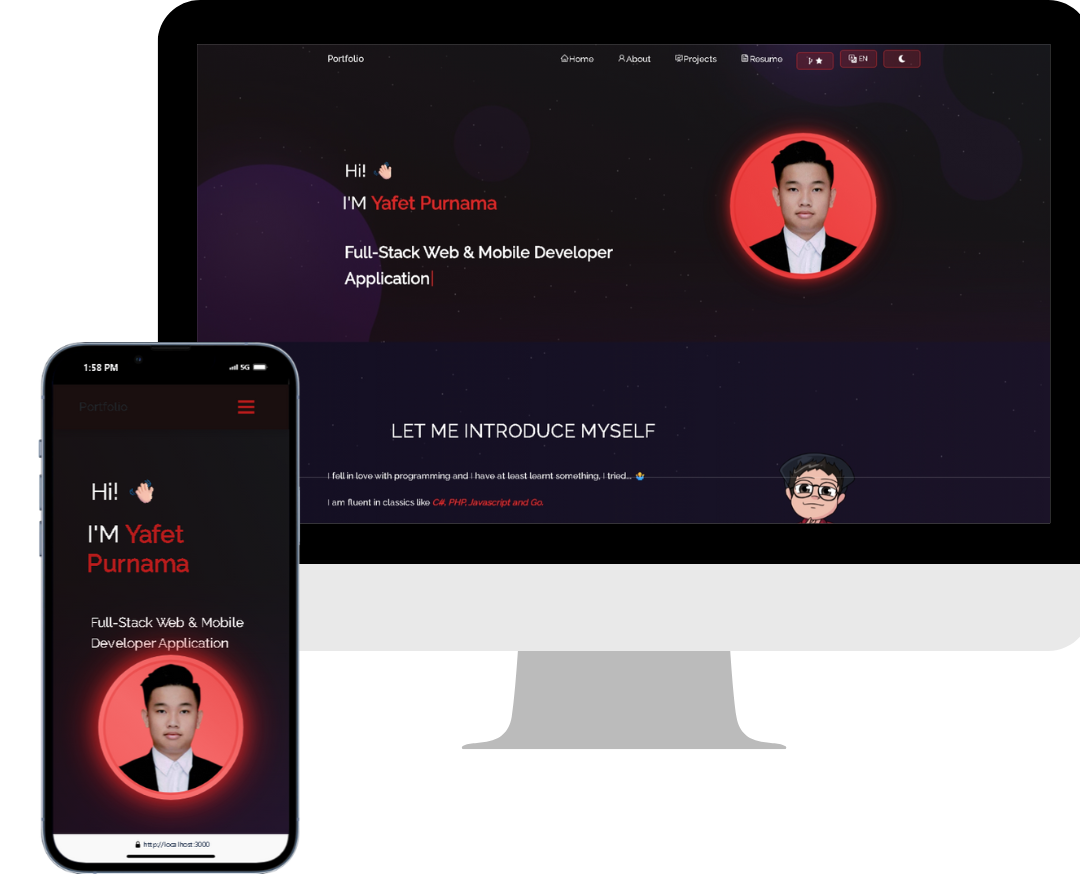
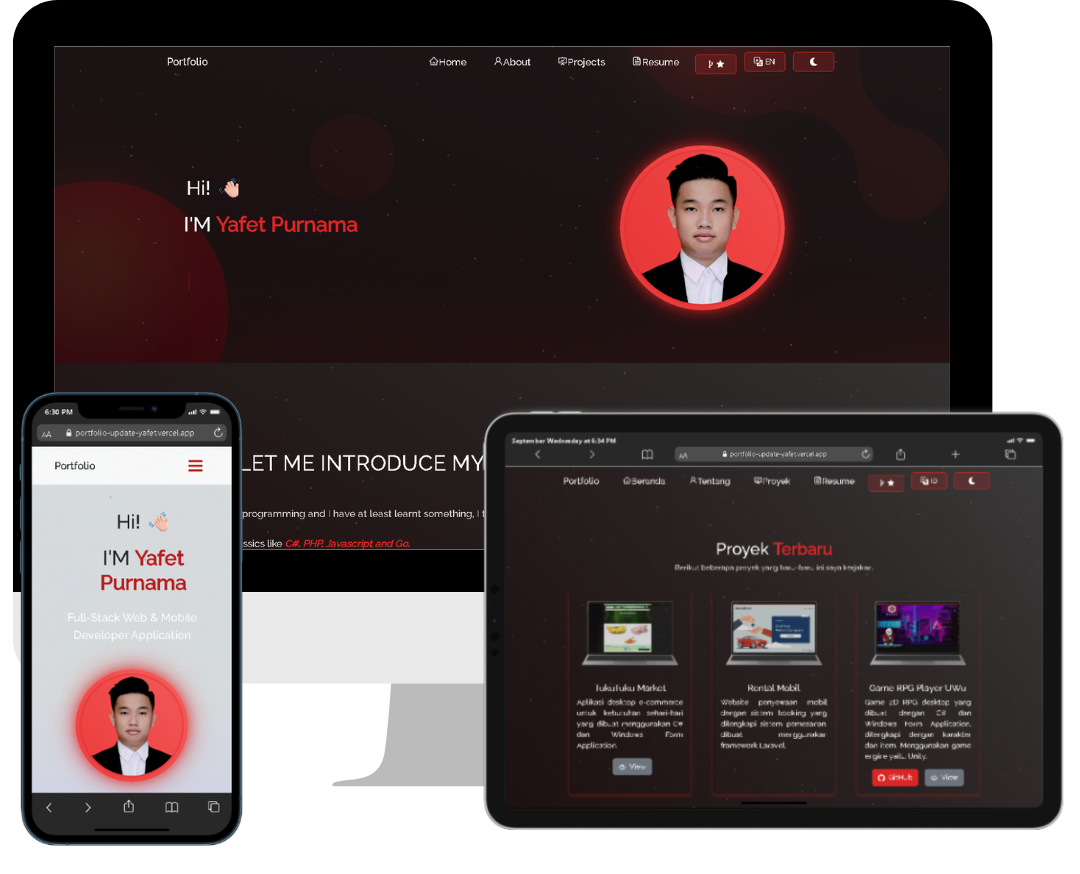
Perbaikan besarr besar setelah backup terakhir

diff --git a/src/style.css b/src/style.css
@@ -223,7 +223,7 @@ button:focus {
   justify-content: center !important;
   text-align: center !important;
   border: 1px solid var(--imp-text-color) !important;
-  color: var(--text-color) !important;
+  color: var(--text-color) !important; /* follow theme */
   transition: all 0.3s ease !important;
   height: 38px !important;
   min-width: 80px !important;
@@ -339,7 +339,8 @@ button:focus {
   .navbar {
     padding: 1rem 2rem !important;
     font-size: 1.4rem !important;
-    background-color: #1a0f0f !important;
+    /* Follow theme on mobile too */
+    background-color: var(--navbar-bg) !important;
   }
   .navbar-nav .nav-item a::after {
     display: none !important;
@@ -362,7 +363,19 @@ button:focus {
     padding: 15px 20px;
     font-size: 1.1em;
   }
+
+  /* Ensure collapsed menu follows theme */
+  .navbar-collapse {
+    background-color: var(--navbar-bg) !important;
+    border-radius: 12px;
+    padding: 0.5rem 0.25rem;
+    box-shadow: 0 6px 18px rgba(0,0,0,0.15);
+  }
+  .navbar-brand, .navbar-nav .nav-link {
+    color: var(--text-color) !important;
+  }
 }
+
 .navbar-brand {
   color: var(--text-color) !important;
 }
@@ -551,6 +564,10 @@ button:focus {
 }
 #tsparticles {
   position: fixed !important;
+  top: 0 !important;
+  left: 0 !important;
+  right: 0 !important;
+  bottom: 0 !important;
   background-repeat: no-repeat !important;
   background-size: cover !important;
   width: 100%;
@@ -601,7 +618,7 @@ button:focus {
 
 .home-content {
   padding: 9rem 0 2rem !important;
-  color: whitesmoke;
+  color: var(--text-color);
   text-align: left;
 }
 
@@ -772,10 +789,18 @@ button:focus {
   position: relative;
   padding-bottom: 70px !important;
   padding-top: 70px !important;
+  /* Follow theme background; light override below */
+  background: var(--background-gradient) !important;
+  color: var(--text-color) !important;
+}
+
+/* Light theme: use solid white for the about segment on the home page */
+[data-theme='light'] .home-about-section {
+  background: #ffffff !important;
 }
 
 .home-about-description {
-  color: white !important;
+  color: var(--text-color) !important;
   padding-top: 100px !important;
   padding-bottom: 20px !important;
   text-align: center;
@@ -790,7 +815,23 @@ button:focus {
 .home-about-social {
   text-align: center !important;
   padding-top: 25px;
-  color: white !important;
+  color: var(--text-color) !important;
+}
+
+/* Dark theme fine-tuning to match previous look (slightly muted paragraphs) */
+[data-theme='dark'] .home-about-body {
+  color: rgba(255, 255, 255, 0.85) !important;
+}
+[data-theme='dark'] .home-about-social p {
+  color: rgba(255, 255, 255, 0.75) !important;
+}
+
+/* Ensure light theme stays crisp */
+[data-theme='light'] .home-about-body {
+  color: #212529 !important;
+}
+[data-theme='light'] .home-about-social p {
+  color: #495057 !important;
 }
 
 .home-about-social-links {
@@ -991,6 +1032,7 @@ button:focus {
   position: relative !important;
   padding-top: 150px !important;
   padding-bottom: 30px !important;
+  /* Default follows theme (dark = gradient), ensures we don't force white on dark theme */
   background: var(--background-gradient) !important;
 }
 
@@ -1019,6 +1061,24 @@ button:focus {
 /* Light theme fine-tuning for cards */
 [data-theme='light'] .project-card-view {
   box-shadow: 0 4px 12px rgba(0,0,0,0.08) !important;
+}
+
+/* Light theme: ensure particles remain visible on Projects section.
+   Use the transparent section gradient instead of the opaque page gradient. */
+[data-theme='light'] .project-section {
+  /* Force white background on light theme per design */
+  background: #ffffff !important;
+  /* Subtle noise/dots overlay to mimic reference */
+  /* background-image:
+    radial-gradient(rgba(0, 0, 0, 0.035) 0.5px, transparent 0.5px),
+    radial-gradient(rgba(0, 0, 0, 0.025) 0.5px, transparent 0.5px);
+  background-size: 22px 22px, 11px 11px;
+  background-position: 0 0, 11px 11px; */
+}
+
+/* Explicitly keep gradient on dark theme */
+[data-theme='dark'] .project-section {
+  background: var(--background-gradient) !important;
 }
 
 .blog-card {
@@ -1100,8 +1160,14 @@ button:focus {
   position: relative !important;
   padding-top: 150px !important;
   padding-bottom: 30px !important;
-  background-image: var(--section-background-color) !important;
-  color: white !important;
+  /* Default follow dark theme gradient; light override below */
+  background: var(--background-gradient) !important;
+  color: var(--text-color) !important;
+}
+
+/* Light theme: About section uses solid white to match design */
+[data-theme='light'] .about-section {
+  background: #ffffff !important;
 }
 
 .tech-icons {
@@ -1138,8 +1204,13 @@ button:focus {
 
 .quote-card-view {
   border: none !important;
-  color: white !important;
+  color: var(--text-color) !important;
   background-color: transparent !important;
+}
+
+/* Back-compat: some components still use className="purple" for accent text */
+.purple {
+  color: var(--imp-text-color) !important;
 }
 
 .about-activity {
@@ -1161,14 +1232,41 @@ button:focus {
   position: relative !important;
   padding-top: 110px !important;
   padding-bottom: 30px !important;
-  background-image: var(--section-background-color) !important;
-  color: white !important;
+  /* Follow theme: gradient for dark, override white for light below */
+  background: var(--background-gradient) !important;
+  color: var(--text-color) !important;
+}
+
+/* Light theme: Resume section uses solid white to match design */
+[data-theme='light'] .resume-section {
+  background: #ffffff !important;
 }
 
 .resume {
   padding-top: 50px;
   padding-bottom: 50px;
   justify-content: center;
+}
+
+/* Light mode: put border directly on the PDF page so it matches the preview size */
+[data-theme='light'] .resume .react-pdf__Document {
+  border: none;
+  padding: 0;
+  background: transparent;
+  box-shadow: none;
+}
+[data-theme='light'] .resume .react-pdf__Page {
+  border: 1px solid rgba(0, 0, 0, 0.12);
+  border-radius: 12px;
+  background: #ffffff;
+  box-shadow: 0 6px 16px rgba(0, 0, 0, 0.08);
+  overflow: hidden; /* clip corners on canvas/text layers */
+}
+/* Ensure inner layers follow the rounded corners */
+[data-theme='light'] .resume .react-pdf__Page__canvas,
+[data-theme='light'] .resume .react-pdf__Page__textContent,
+[data-theme='light'] .resume .react-pdf__Page__annotations {
+  border-radius: 12px;
 }
 
 .resume-left {
@@ -1324,9 +1422,27 @@ button:focus {
 
 /* Ini akan aktif saat light theme */
 [data-theme='light'] {
+  /* Make gradients semi-transparent so #tsparticles (behind) stays visible */
+  /* --background-gradient: linear-gradient(
+    to bottom left,
+    rgba(255, 255, 255, 0.92),
+    rgba(233, 236, 239, 0.92)
+  ); */
   --background-gradient: linear-gradient(to bottom left, #ffffff, #e9ecef);
   /* Background image untuk Home, mengikuti tema terang */
+  /* --home-bg-image: none; */
   --home-bg-image: url(./Assets/home-bg-light.png);
+  /* Transparent overlays so particles are visible */
+  --image-gradient: linear-gradient(
+    to bottom left,
+    rgba(255, 255, 255, 0.04),
+    rgba(233, 236, 239, 0.06)
+  );
+  --section-background-color: linear-gradient(
+    to bottom left,
+    rgba(255, 255, 255, 0.04),
+    rgba(233, 236, 239, 0.06)
+  );
   --text-color: #212529; /* Hitam lembut */
   --navbar-bg: rgba(255, 255, 255, 0.8);
   --footer-bg: #ffffff;
@@ -1391,11 +1507,17 @@ button:focus {
   background: transparent;
   padding: 0;
   box-shadow: none;
+  border-radius: 0 !important; /* remove circular crop */
+  height: auto; /* allow image to decide height */
 }
 
 .profile-picture-border--plain .profile-picture-img {
   border: none;
   background: transparent;
+  border-radius: 0 !important; /* keep full rectangle */
+  width: 100%;
+  height: auto; /* prevent vertical cropping */
+  object-fit: contain !important; /* ensure full figure visible */
 }
 
 .profile-picture-border--plain:hover {

diff --git a/src/components/Particle.js b/src/components/Particle.js
@@ -29,7 +29,10 @@ function Particle() {
         value: isDark ? 160 : 120,
         density: { enable: true, value_area: 1500 },
       },
-      color: { value: isDark ? "#ffffff" : "#111827" },
+      // Light theme spans both light (home) and dark (other) sections.
+      // Use brighter, higher-contrast color on light theme
+      color: { value: isDark ? "#ffffff" : ["#111111", "#ffffff"] },
+      // color: { value: isDark ? "#ffffff" : "#dc26261e" },
       shape: { type: "circle" },
       line_linked: {
         enable: false,
@@ -37,15 +40,16 @@ function Particle() {
       },
       move: {
         direction: "none",
-        speed: isDark ? 0.05 : 0.03,
+        speed: isDark ? 0.05 : 0.05,
       },
       size: { value: 1.5 },
       opacity: {
-        value: isDark ? 0.25 : 0.12,
+        // Valid opacity range is 0..1. Use higher light value for visibility on dark sections.
+        value: isDark ? 0.25 : 0.35,
         anim: {
           enable: true,
           speed: 0.8,
-          opacity_min: isDark ? 0.05 : 0.03,
+          opacity_min: isDark ? 0.05 : 0.12,
         },
       },
     },

diff --git a/src/components/Footer.js b/src/components/Footer.js
@@ -30,7 +30,7 @@ function Footer() {
             <li className="social-icons">
               <a
                 href="https://github.com/YafetPurnama/"
-                style={{ color: "white" }}
+                // style={{ color: "white" }}
                 target="_blank" 
                 rel="noopener noreferrer"
               >
@@ -40,7 +40,7 @@ function Footer() {
             <li className="social-icons">
               <a
                 href="https://www.linkedin.com/in/yafet-purnama/"
-                style={{ color: "white" }}
+                // style={{ color: "white" }}
                 target="_blank" 
                 rel="noopener noreferrer"
               >
@@ -50,7 +50,7 @@ function Footer() {
             <li className="social-icons">
               <a
                 href="https://www.instagram.com/yafetpurnama/"
-                style={{ color: "white" }}
+                // style={{ color: "white" }}
                 target="_blank" 
                 rel="noopener noreferrer"
               >

diff --git a/src/index.css b/src/index.css
@@ -4,5 +4,10 @@ body {
   font-family: "Raleway", serif !important;
   -webkit-font-smoothing: antialiased;
   -moz-osx-font-smoothing: grayscale;
-  background-image: linear-gradient(to left, rgb(27 20 41), rgb(20 15 35));
+
+  /* background-image: linear-gradient(to left, rgb(27 20 41), rgb(20 15 35)); */
+  
+  /* Follow theme variables for background and text */
+  background: var(--background-gradient);
+  color: var(--text-color);
 }

diff --git a/src/App.css b/src/App.css
@@ -22,8 +22,10 @@
 .footer {
   flex-shrink: 0;
   padding: 20px 0;
-  background-color: #1a1a1a;
-  color: white;
+  /* Follow theme variables so footer adapts to light/dark */
+  background-color: var(--footer-bg);
+  color: var(--text-color);
+  /* color: var(--text-color); */
   margin-top: auto;
 }
 
